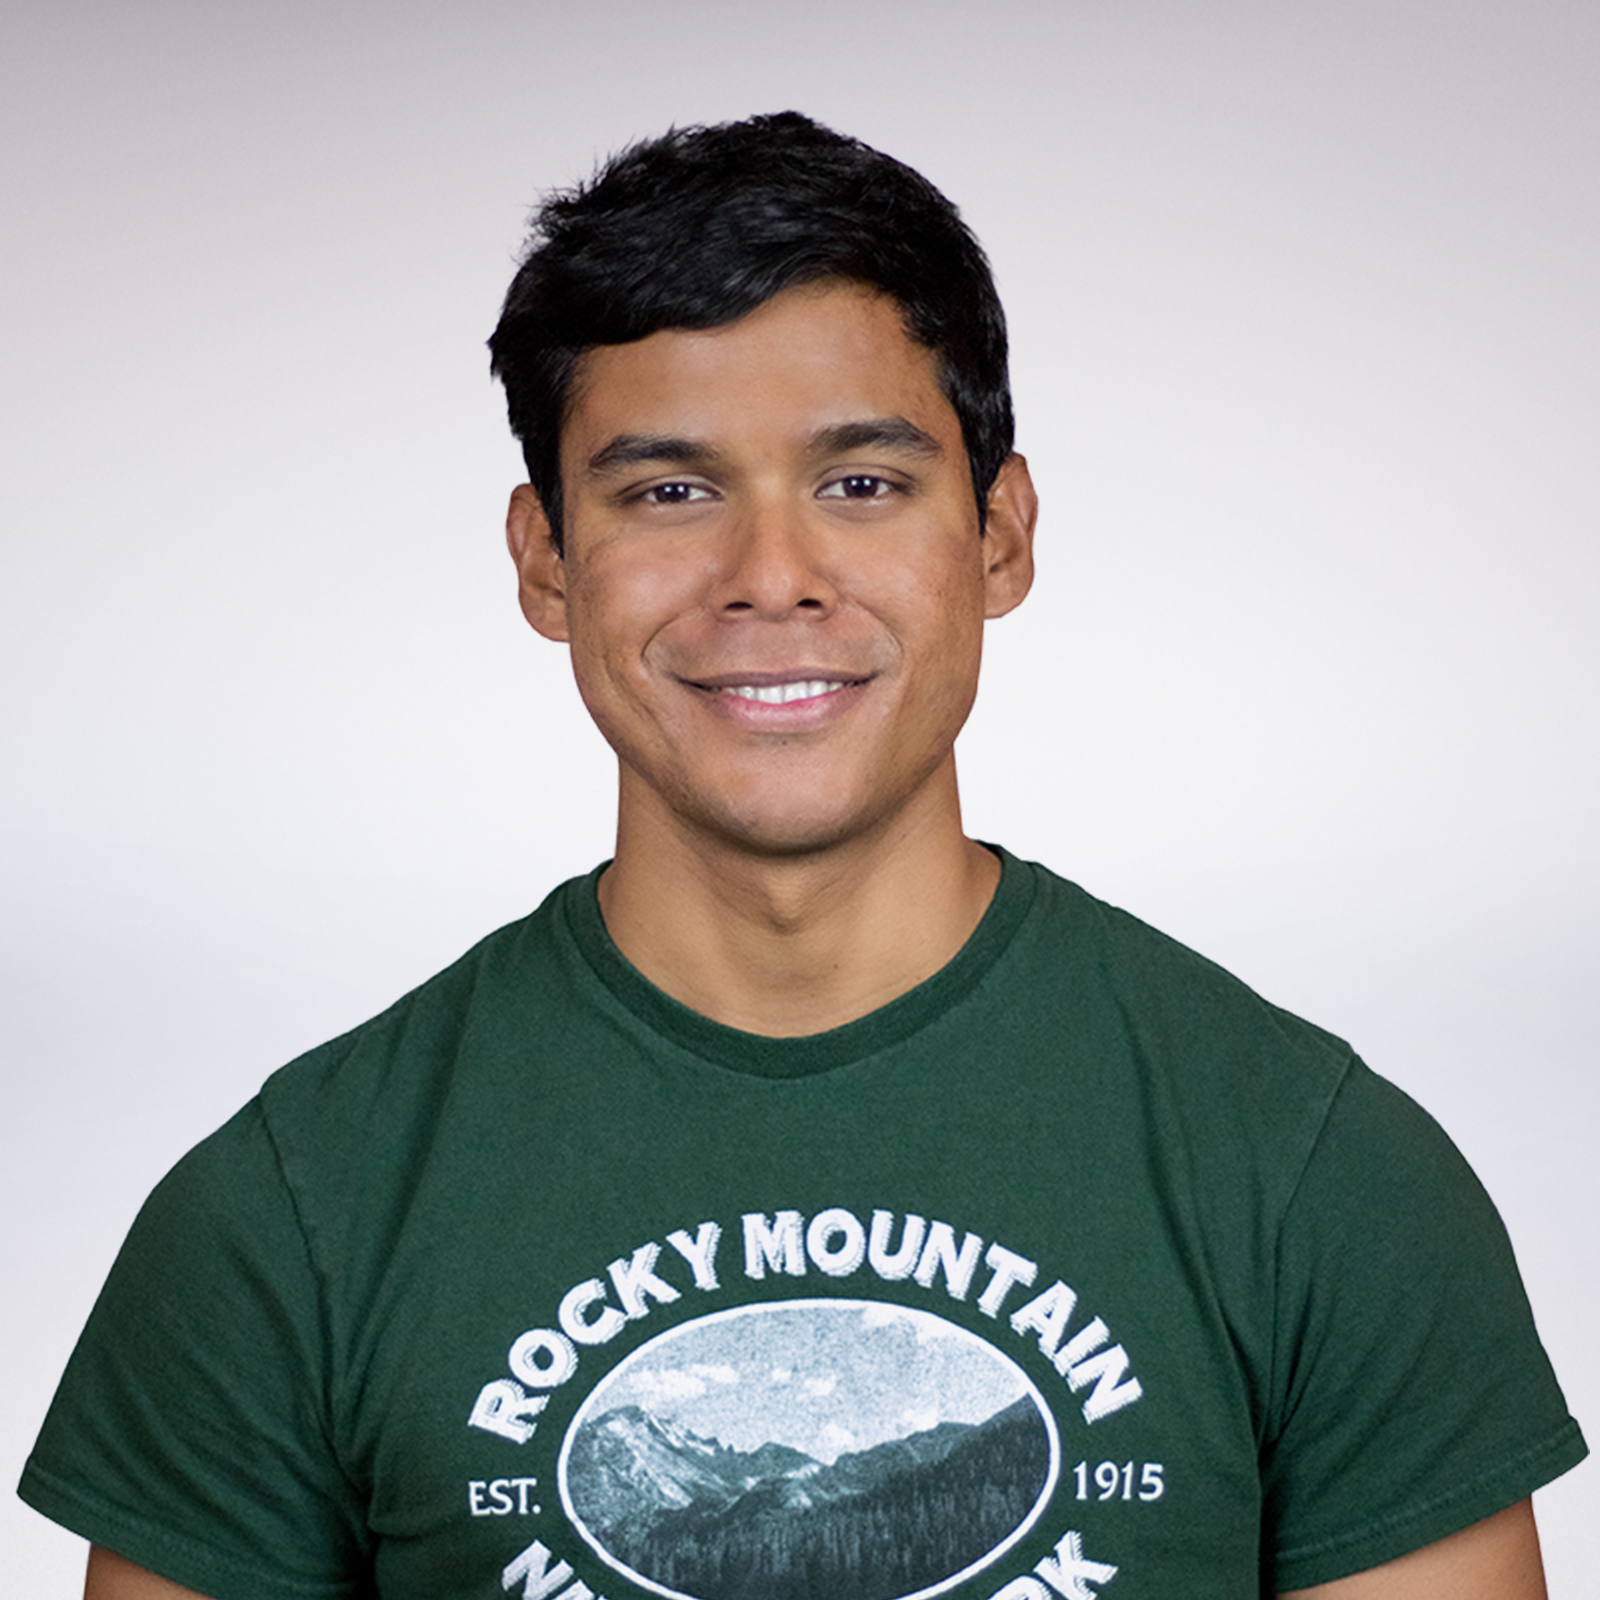
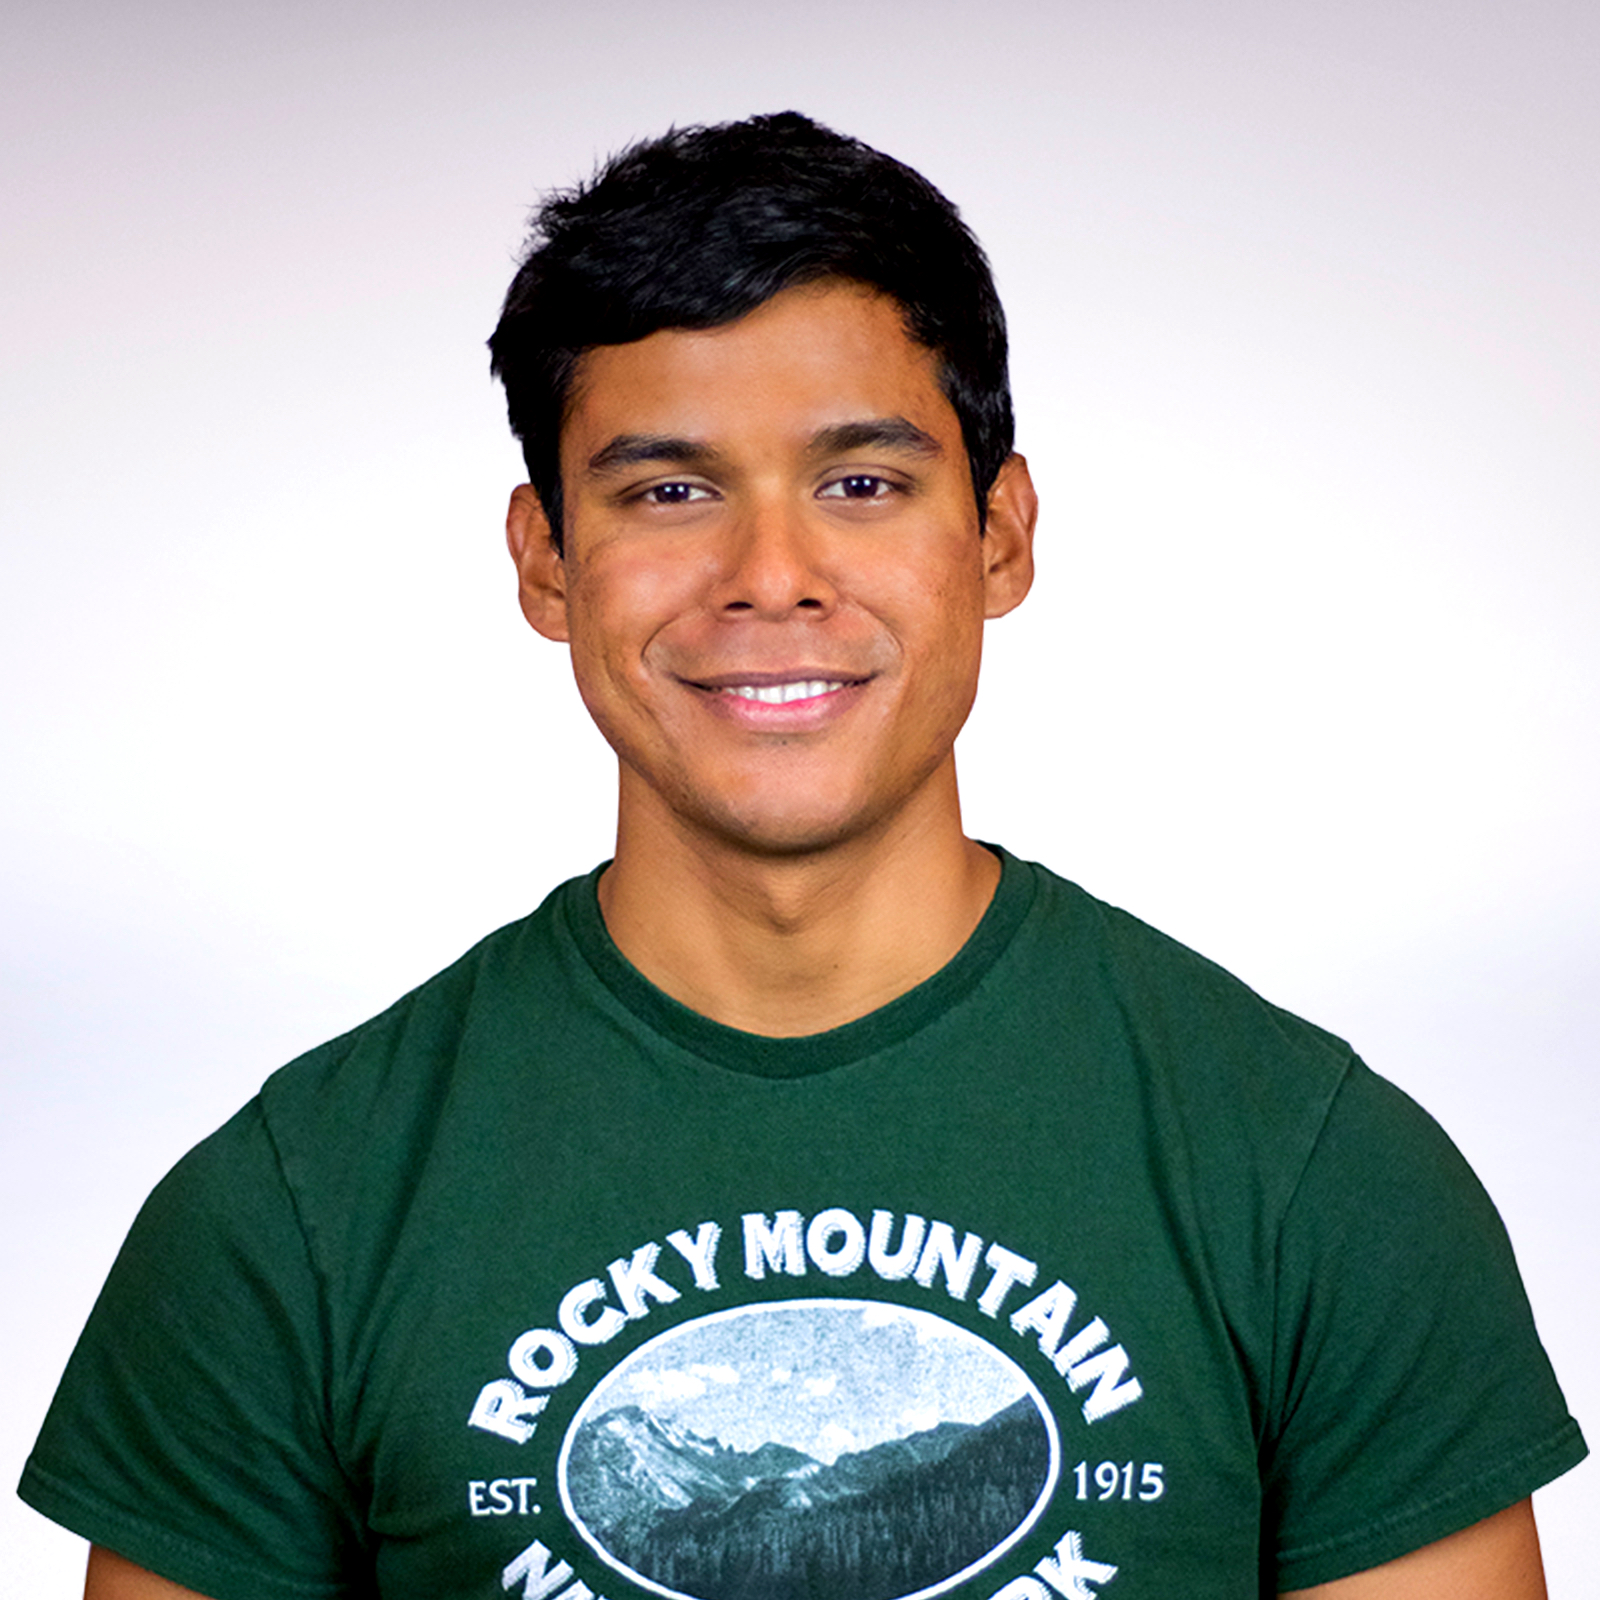
Flesh out portfolio

diff --git a/src/lib/Projects.ts b/src/lib/Projects.ts
@@ -1,16 +1,16 @@
 export interface IProject {
     name: string;
-    url: string;
+    url?: string;
     displayImg: string;
-    demoImg: string;
+    demoImg?: string;
     description: string;
 }
 
 class Project implements IProject {
     name: string;
-    url: string;
+    url?: string;
     displayImg: string;
-    demoImg: string;
+    demoImg?: string;
     description: string;
 
     constructor({ name, url, displayImg, demoImg, description }: IProject) {
@@ -24,10 +24,45 @@ class Project implements IProject {
 
 export default [
     new Project({
+        name: 'Starship Bridge Simulator',
+        url: 'https://starship.88mph.io',
+        displayImg: '/assets/starship.png',
+        description: 'In-browser game simulator, modeled after Star Trek motifs, built with TypeScript, React.js, and Webpack.',
+    }),
+    new Project({
+        name: 'This Portfolio',
+        url: 'https://adnan-chowdhury.com',
+        displayImg: '',
+        description: 'Built with TypeScript, React.js, and Webpack.',
+    }),
+    new Project({
         name: 'Quartzy',
         url: 'https://quartzy.com', 
-        displayImg: 'http://chewbonga.com/chewbonga.jpg',
-        demoImg: 'http://chewbonga.com/chewbonga.jpg',
-        description: 'Quartzy is a poop platform',
+        displayImg: '/assets/quartzy.png',
+        description: 'Built Quartzy\'s frontend application using Ember.js',
+    }),
+    new Project({
+        name: 'Scribble.today',
+        url: 'https://scribble.today',
+        displayImg: '/assets/scribble.svg',
+        description: 'Full-stack journaling web application, utilizing Ember.js and Node.js, coupled with PostgreSQL, Gulp, and Docker.',
+    }),
+    new Project({
+        name: 'Slushi.es',
+        url: 'https://slushi.es',
+        displayImg: '/assets/slushies.png',
+        description: 'Cloud bookmarking solution, built with Ember.js, Node.js, Gulp, PostgreSQL, and Docker.',
+    }),
+    new Project({
+        name: 'SubwayPOS - IPC',
+        url: 'https://www.ipcoop.com/about-ipc',
+        displayImg: '/assets/subwaypos.png',
+        description: 'Built CI/CD pipeline with Puppet, Ruby, and Windows Powershell to fully automate build and test process for SubwayPOS application, built with C# and .NET.',
+    }),
+    new Project({
+        name: 'Meditation with Talah Rama',
+        url: 'https://earthboundcentral.com/2009/04/meditation-with-talah-rama/',
+        displayImg: '/assets/meditation1.png',
+        description: 'NintendoDS Homebrew ROM, built using homebrew library ‘libnds’, implemented in C, using gcc and gdb.',
     }),
 ];

diff --git a/src/components/Project/styles.scss b/src/components/Project/styles.scss
@@ -1,0 +1,129 @@
+.project {
+  display: flex;
+  flex-wrap: wrap;
+  justify-content: center;
+  margin-bottom: 4rem;
+
+  .logo {
+    flex: 1 100%;
+
+    display: flex;
+    justify-content: center;
+    align-items: center;
+
+    max-width: 200px;
+    height: 200px;
+    padding: 1rem;
+    margin-bottom: 1rem;
+    overflow: hidden;
+
+    border-radius: 1rem;
+
+    box-sizing: border-box;
+    box-shadow: 0 0 4px rgba(0, 0, 0, 0.3);
+
+    img {
+      width: 100%;
+      height: auto;
+    }
+
+    &.bg-black {
+      background-color: #000;
+    }
+  }
+
+  .name-and-description {
+    flex: 1 100%;
+
+    padding: 0 2rem;
+
+    display: flex;
+    flex-direction: column;
+    align-items: center;
+    justify-content: center;
+
+    .name {
+      font-size: 2rem;
+      font-weight: 400;
+
+      margin-bottom: 1rem;
+
+      text-align: center;
+    }
+
+    @media(min-width: 400px) {
+      padding: 0 3rem;
+    }
+  }
+}
+
+@media(min-width: 550px) {
+  .project {
+    display: flex;
+    align-items: center;
+    margin-bottom: 4rem;
+
+    &.even {
+      .logo {
+        order: 0;
+      }
+
+      .name-and-description {
+        order: 1;
+        align-items: flex-start;
+
+        .name {
+          text-align: left;
+        }
+      }
+    }
+
+    &.odd {
+      .logo {
+        order: 1;
+      }
+
+      .name-and-description {
+        order: 0;
+        align-items: flex-end;
+        text-align: right;
+      }
+    }
+
+    .logo {
+      flex: 1;
+
+      display: flex;
+      align-items: center;
+      justify-content: center;
+
+      max-width: 200px;
+      height: 200px;
+
+      margin: 0 2rem;
+      padding: .5rem 1rem;
+      box-sizing: border-box;
+
+      border-radius: 24px;
+      box-shadow: 0 0 4px rgba(0, 0, 0, 0.3);
+
+      overflow: hidden;
+
+      img {
+        width: 100%;
+      }
+    }
+
+    .name-and-description {
+      flex: 1;
+      padding: 0 2rem;
+
+      .name {
+        font-size: 2rem;
+        font-weight: 400;
+        padding: .5rem 0;
+        margin-bottom: 0;
+      }
+    }
+  }
+}

diff --git a/src/components/Project/index.tsx b/src/components/Project/index.tsx
@@ -1,16 +1,31 @@
 import * as React from 'react';
 import { IProject } from 'lib/Projects';
+import './styles.scss';
 
 interface ProjectProps {
+    index: number;
     project: IProject;
+    bgBlack?: boolean;
 }
 
 export default class Project extends React.PureComponent<ProjectProps, {}> {
     render() {
-        console.log('project', this.props.project);
+        const isBgBlack = !!this.props.bgBlack;
+        const isEvenIndex = this.props.index % 2 === 0;
+
         return (
-            <div className="project">
-                <h1>{this.props.project.name}</h1>
+            <div className={`project ${isEvenIndex ? 'even' : 'odd'}`}>
+                <div className={`logo ${isBgBlack ? 'bg-black' : ''}`}><img src={this.props.project.displayImg} alt={this.props.project.name} /></div>
+
+                <div className="name-and-description">
+                    <div className="name">
+                        {this.props.project.name}
+                    </div>
+
+                    <div className="description">
+                        {this.props.project.description}
+                    </div>
+                </div>
             </div>
         );
     }

diff --git a/src/Portfolio.tsx b/src/Portfolio.tsx
@@ -12,9 +12,8 @@ export default class Portfolio extends React.PureComponent {
                 <Header />
 
                 <div className="projects">
-                    <div className="section-header">Projects</div>
                     {Projects.map((project, index) => (
-                        <Project key={index} project={project} />
+                        <Project key={index} index={index} project={project} bgBlack={project.name.indexOf('Starship Bridge') > -1} />
                     ))}
                 </div>
             </div>

diff --git a/src/components/Headshot/CoolCircle.tsx b/src/components/Headshot/CoolCircle.tsx
@@ -14,7 +14,7 @@ export default class CoolCircle extends React.PureComponent<CoolCircleProps, {}>
         const animationDelay =
             (this.props.animationDuration / this.props.totalCirclesLength) * this.props.index;
         const style = {
-            border: `1px solid ${borderColor}`,
+            border: `2px solid ${borderColor}`,
             animationDelay: `${animationDelay}s`,
             animationDuration: `${this.props.animationDuration}s`,
         };

diff --git a/src/components/Headshot/styles.scss b/src/components/Headshot/styles.scss
@@ -13,10 +13,11 @@
         box-shadow: 0 0 12px 0px rgba(150, 150, 150, 50);
 
         .image {
-            background: url(/assets/adnan2.jpg) no-repeat center -5px;
+            background: url(/assets/adnan6.gif) no-repeat center -5px;
             background-size: 150%;
             height: 100%;
             width: auto;
+            filter: contrast(1.2) brightness(1);
         }
     }
 }

diff --git a/src/Portfolio.scss b/src/Portfolio.scss
@@ -1,9 +1,14 @@
 .portfolio {
+    display: flex;
+    flex-wrap: wrap;
+    justify-content: center;
+
+    .header {
+        flex: 1 100%;
+    }
+
     .projects {
-        .section-header {
-            font-size: 2rem;
-            font-weight: bold;
-            text-align: center;
-        }
+        margin-top: 4rem;
+        max-width: 800px;
     }
 }

diff --git a/src/components/Header/styles.scss b/src/components/Header/styles.scss
@@ -1,9 +1,7 @@
-.header {
-    margin-bottom: 2rem;
-}
-
 .name-and-title {
     text-align: center;
+    color: #333;
+    text-shadow: 1px 1px 0 rgba(0, 0, 0, .2);
 
     .name {
         font-size: 3rem;
@@ -19,5 +17,6 @@
     .title {
         font-size: 2rem;
         font-weight: bold;
+        font-style: italic;
     }
 }

diff --git a/src/index.scss b/src/index.scss
@@ -4,5 +4,4 @@ body {
     margin: 0;
     font-family: -apple-system, BlinkMacSystemFont, "Segoe UI", Roboto, Helvetica, Arial, sans-serif, "Apple Color Emoji", "Segoe UI Emoji", "Segoe UI Symbol";
     color: #333;
-    text-shadow: 1px 1px 0 rgba(0, 0, 0, .5);
 }

diff --git a/src/components/Headshot/index.tsx b/src/components/Headshot/index.tsx
@@ -1,7 +1,7 @@
 import * as React from 'react';
 import CoolCircle from './CoolCircle';
 import _range = require('lodash/range');
-import  './styles.scss';
+import './styles.scss';
 
 export default class Headshot extends React.PureComponent {
     render() {
